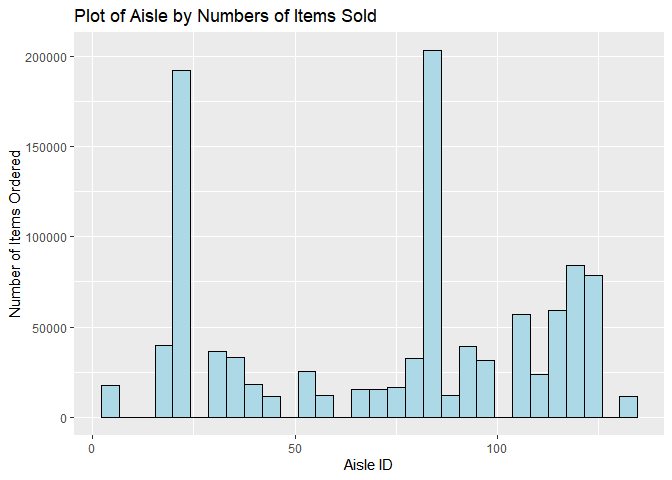
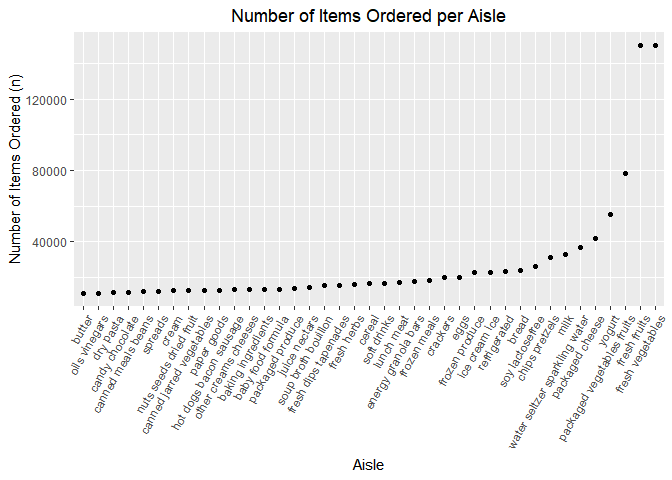
Completing description of tidied accelerometer data (Problem 2)

diff --git a/p8105_hw3_hw2852.md b/p8105_hw3_hw2852.md
@@ -22,6 +22,7 @@ library(tidyverse)
 ``` r
 library(readxl)
 library(dplyr)
+library(patchwork)
 ```
 
 # Problem 1
@@ -36,9 +37,23 @@ data("instacart")
 
 ## 1.1 Description of `Instacart` Data
 
+The `instacart` data set contains **1384617 rows** and **15 columns**.
+Each row in the data set corresponds to a single item of an Instacart
+order. The variables in the data set include ID numbers corresponding to
+orders, products, and Instacart users, as well as the order in which a
+particular product was added to cart. The data set contains a number of
+order-level variables that describe the date and time an order was made,
+and the number of days since a previous order was made. There are also
+several item-specific variables that describe the product name,
+department to which the product belongs, the aisle in which the product
+can be found, and relevant order history.
+
+There are **39123 products** found in **131209 orders** from **131209
+distinct users**.
+
 ## 1.2 Analysis of `Instacart` Data
 
-### Aisles
+### Enumerating Total Aisles
 
 We can enumerate the number of aisles by applying the `group_by`
 function to identify the number of unique `aisle_id` variable values.
@@ -84,19 +99,85 @@ the following are the aisles from which the most items are ordered:
 
 ### Plotting Aisle vs. Items Ordered
 
+Using the `instacart` data set, we can generate a plot showing the
+number of items ordered in each aisle, limiting this to aisles with more
+than 10,000 items ordered. This process involves counting the number of
+distinct aisles and filtering the data to only include aisles in which
+more than 10,000 items are ordered. We can then generate a scatter plot
+using `ggplot`, with the aisles arranged in increasing order of number
+of items ordered.
+
 ``` r
 instacart %>% 
-  group_by(aisle_id) %>% 
-  mutate(items_ordered = n()) %>% 
-  filter(items_ordered > 10000) %>% 
-  ggplot(aes(x = aisle_id)) + 
-  geom_histogram(color = "black", fill = "lightblue") + 
-  labs(title = "Plot of Aisle by Numbers of Items Sold", x = "Aisle ID", y = "Number of Items Ordered")
+  count(aisle) %>% 
+  filter(n > 10000) %>% 
+  mutate(aisle = fct_reorder(aisle, n)) %>% 
+  ggplot(aes(x = aisle, y = n)) + 
+  geom_point() + 
+  labs(
+    title = "Number of Items Ordered per Aisle", 
+    x = "Aisle", 
+    y = "Number of Items Ordered (n)") +
+  theme(axis.text.x = element_text(angle = 60, hjust = 1), 
+        plot.title = element_text(hjust = 0.5))
 ```
 
-    ## `stat_bin()` using `bins = 30`. Pick better value with `binwidth`.
-
 ![](p8105_hw3_hw2852_files/figure-gfm/unnamed-chunk-3-1.png)<!-- -->
+\### Top 3 Most Popular Items per Aisle
+
+The following table identifies the top 3 most popular items in the
+`baking ingredients`, `dog food care` and `packaged vegetables fruits`
+aisles, and enumerates the times each item is ordered.
+
+``` r
+instacart %>% 
+  filter(aisle %in% c("baking ingredients", "dog food care", "packaged vegetables fruits")) %>%
+  group_by(aisle) %>% 
+  count(product_name) %>% 
+  mutate(rank = min_rank(desc(n))) %>% 
+  filter(rank < 4) %>% 
+  arrange(desc(n)) %>%
+  knitr::kable()
+```
+
+| aisle                      | product_name                                  |    n | rank |
+|:---------------------------|:----------------------------------------------|-----:|-----:|
+| packaged vegetables fruits | Organic Baby Spinach                          | 9784 |    1 |
+| packaged vegetables fruits | Organic Raspberries                           | 5546 |    2 |
+| packaged vegetables fruits | Organic Blueberries                           | 4966 |    3 |
+| baking ingredients         | Light Brown Sugar                             |  499 |    1 |
+| baking ingredients         | Pure Baking Soda                              |  387 |    2 |
+| baking ingredients         | Cane Sugar                                    |  336 |    3 |
+| dog food care              | Snack Sticks Chicken & Rice Recipe Dog Treats |   30 |    1 |
+| dog food care              | Organix Chicken & Brown Rice Recipe           |   28 |    2 |
+| dog food care              | Small Dog Biscuits                            |   26 |    3 |
+
+### Mean Hour of Purchases: Pink Lady Apples & Coffe Ice Cream
+
+This final table displays the mean hour of the day at which the Pink
+Lady Applies and Coffee Ice Cream products are ordered each day of the
+week.
+
+``` r
+instacart %>%
+  filter(product_name %in% c("Pink Lady Apples", "Coffee Ice Cream")) %>%
+  group_by(product_name, order_dow) %>%
+  summarize(mean_hour = mean(order_hour_of_day)) %>%
+  spread(key = order_dow, value = mean_hour) %>%
+  knitr::kable(digits = 2)
+```
+
+    ## `summarise()` has grouped output by 'product_name'. You can override using the
+    ## `.groups` argument.
+
+| product_name     |     0 |     1 |     2 |     3 |     4 |     5 |     6 |
+|:-----------------|------:|------:|------:|------:|------:|------:|------:|
+| Coffee Ice Cream | 13.77 | 14.32 | 15.38 | 15.32 | 15.22 | 12.26 | 13.83 |
+| Pink Lady Apples | 13.44 | 11.36 | 11.70 | 14.25 | 11.55 | 12.78 | 11.94 |
+
+Based on the table generated above, we can conclude that Pink Lady
+Apples are usually purchased earlier in the day than Coffee Ice Cream,
+with the exception of Day 5.
 
 # Problem 2
 
@@ -131,7 +212,14 @@ accelerometer_data =
     ## ℹ Use `spec()` to retrieve the full column specification for this data.
     ## ℹ Specify the column types or set `show_col_types = FALSE` to quiet this message.
 
-\*\*\* Data description
+The tidied `accelerometer_data` data set contains **50400 rows** and **6
+columns**. Each row in the data set corresponds to a single reading of
+accelerometer activity. The variables in the data set include
+identifiers of the week, day, and minute of the day at which the
+accelerometer activity count is recorded. The newly created
+`weekend_vs_weekday` variable also identifies whether the reading
+corresponds to a weekend or a weekday. Accelerometer activity count data
+is collected on **35 days** over **5 weeks**.
 
 ## 2.2 Total Daily Activity
 
@@ -213,7 +301,7 @@ accelerometer_data %>%
     color = "Day of Week") 
 ```
 
-![](p8105_hw3_hw2852_files/figure-gfm/unnamed-chunk-6-1.png)<!-- -->
+![](p8105_hw3_hw2852_files/figure-gfm/unnamed-chunk-8-1.png)<!-- -->
 
 \*\*\* Data description
 
@@ -227,32 +315,135 @@ library(p8105.datasets)
 data("ny_noaa")
 ```
 
-## 3.1 NY NOAA Data: Clean
+## 3.1 NY NOAA Data: Tidying Data
 
 We will first tidy the `ny_noaa` data set. This process involves
+cleaning variable names, creating new `year`, `month` and `day`
+variables from the existing `date` variable, and mutating year, month,
+date, precipitation, maximum and minimum temperature variables to
+appropriate (i.e., numeric) units).
 
 ``` r
-ny_noaa %>% 
+ny_noaa_data = ny_noaa %>% 
   janitor::clean_names() %>% 
   separate(col = date, into = c('year', 'month','day'), sep = '-') %>%
   mutate(
+    year = as.numeric(year),
+    month = as.numeric(month),
+    day = as.numeric(day),
     prcp = prcp/10, 
-    tmax = as.numeric(tmax),
-    tmin = as.numeric(tmin),
+    tmax = as.numeric(tmax) / 10,
+    tmin = as.numeric(tmin) / 10
   )
 ```
 
-    ## # A tibble: 2,595,176 × 9
-    ##    id          year  month day    prcp  snow  snwd  tmax  tmin
-    ##    <chr>       <chr> <chr> <chr> <dbl> <int> <int> <dbl> <dbl>
-    ##  1 US1NYAB0001 2007  11    01       NA    NA    NA    NA    NA
-    ##  2 US1NYAB0001 2007  11    02       NA    NA    NA    NA    NA
-    ##  3 US1NYAB0001 2007  11    03       NA    NA    NA    NA    NA
-    ##  4 US1NYAB0001 2007  11    04       NA    NA    NA    NA    NA
-    ##  5 US1NYAB0001 2007  11    05       NA    NA    NA    NA    NA
-    ##  6 US1NYAB0001 2007  11    06       NA    NA    NA    NA    NA
-    ##  7 US1NYAB0001 2007  11    07       NA    NA    NA    NA    NA
-    ##  8 US1NYAB0001 2007  11    08       NA    NA    NA    NA    NA
-    ##  9 US1NYAB0001 2007  11    09       NA    NA    NA    NA    NA
-    ## 10 US1NYAB0001 2007  11    10       NA    NA    NA    NA    NA
-    ## # … with 2,595,166 more rows
+## 3.2 Snowfall
+
+Using the tidied `ny_noaa_data` data set, we can determine the most
+commonly observed values of snowfall by first grouping the observations
+by `snow`, then summarizing the number of observations for each `snow`
+value, and arranging the output in descending order.
+
+``` r
+ny_noaa_data %>% 
+  group_by(snow) %>% 
+  summarise(snowfall_n_obs = n()) %>% 
+  arrange(desc(snowfall_n_obs))
+```
+
+    ## # A tibble: 282 × 2
+    ##     snow snowfall_n_obs
+    ##    <int>          <int>
+    ##  1     0        2008508
+    ##  2    NA         381221
+    ##  3    25          31022
+    ##  4    13          23095
+    ##  5    51          18274
+    ##  6    76          10173
+    ##  7     8           9962
+    ##  8     5           9748
+    ##  9    38           9197
+    ## 10     3           8790
+    ## # … with 272 more rows
+
+## 3.3 Plotting Maximum Temperatures in January & July
+
+To generate a 2-panel plot depicting the average maximum temperature in
+January and July in each station across years.
+
+``` r
+ny_noaa_data %>%
+  select(id, year, month, day, tmax) %>% 
+  filter(month == 1 | month == 7) %>% 
+  mutate(month = recode(month, 
+                        '1' = 'January', 
+                        '7' = 'July')) %>% 
+  ggplot(aes(x = year, y = tmax)) +
+  geom_point(aes(color = tmax)) +
+  geom_smooth(se = FALSE, color = "yellow") +
+  facet_grid(~month) +
+  labs(
+    title = "Maximum Temperatures in January vs. July (1981-2010)",
+    x = "Year", 
+    y = "Maximum Temperature (C)", 
+    color = "Temperature (C)") +
+  theme(
+    plot.title = element_text(hjust = 0.5),
+    strip.text = element_text(face = "bold"))
+```
+
+    ## `geom_smooth()` using method = 'gam' and formula 'y ~ s(x, bs = "cs")'
+
+    ## Warning: Removed 190331 rows containing non-finite values (stat_smooth).
+
+    ## Warning: Removed 190331 rows containing missing values (geom_point).
+
+![](p8105_hw3_hw2852_files/figure-gfm/unnamed-chunk-12-1.png)<!-- -->
+
+## 3.4 Plotting Maximum and Minimum Temperatures & Distribution of Snowfall
+
+``` r
+tmax_vs_tmin_p = 
+ny_noaa_data %>% 
+  select(tmax,tmin) %>% 
+  drop_na(tmax, tmin) %>% 
+  pivot_longer(
+    tmax:tmin,
+    names_to = "temp_observation", 
+    values_to = "temp_measurement") %>%
+  mutate(temp_observation = recode(temp_observation, 
+                                   'tmax' = "Max Temperature",
+                                   'tmin' = "Min Temperature")) %>% 
+  ggplot(aes(x = temp_measurement, fill = temp_observation)) +
+  geom_density(alpha = 0.5) +
+  labs(
+    title = "Maximum & Minimum Temperatures",
+    x = "Temperature (C)", 
+    y = "Density", 
+    fill = "Observation") +
+   theme(
+    legend.position = "bottom",
+    plot.title = element_text(hjust = 0.5))
+
+dist_snowfall_plot = 
+  ny_noaa_data %>% 
+  filter(0 < snow & snow < 100) %>% 
+  group_by(year) %>% 
+  ggplot(aes(x = snow, y = year, group = year, fill = year)) + 
+  ggridges::geom_density_ridges() + 
+  viridis::scale_fill_viridis() +
+  labs(
+    title = "Distribution of Snowfall",
+    x = "Snowfall (mm)", 
+    y = "Density", 
+    fill = "year") +
+   theme(
+    legend.position = "none",
+    plot.title = element_text(hjust = 0.5))   
+
+tmax_vs_tmin_p + dist_snowfall_plot
+```
+
+    ## Picking joint bandwidth of 3.76
+
+![](p8105_hw3_hw2852_files/figure-gfm/unnamed-chunk-13-1.png)<!-- -->
